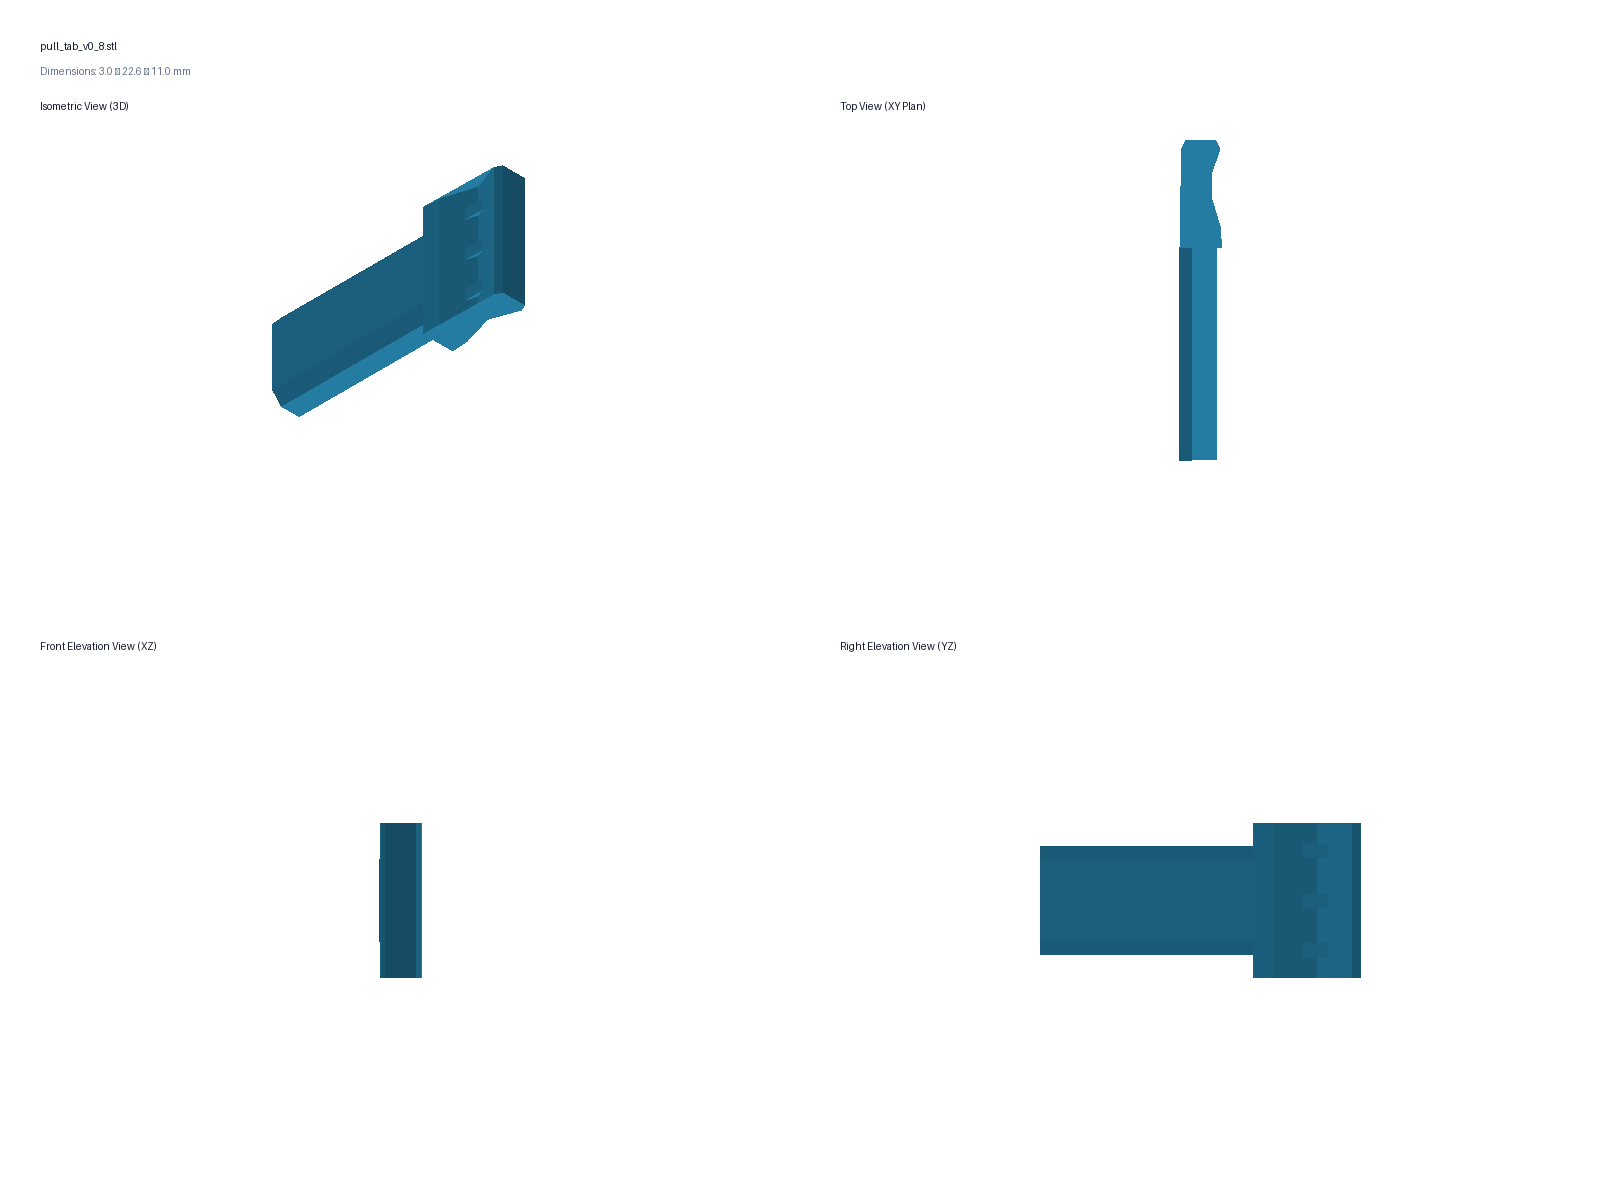
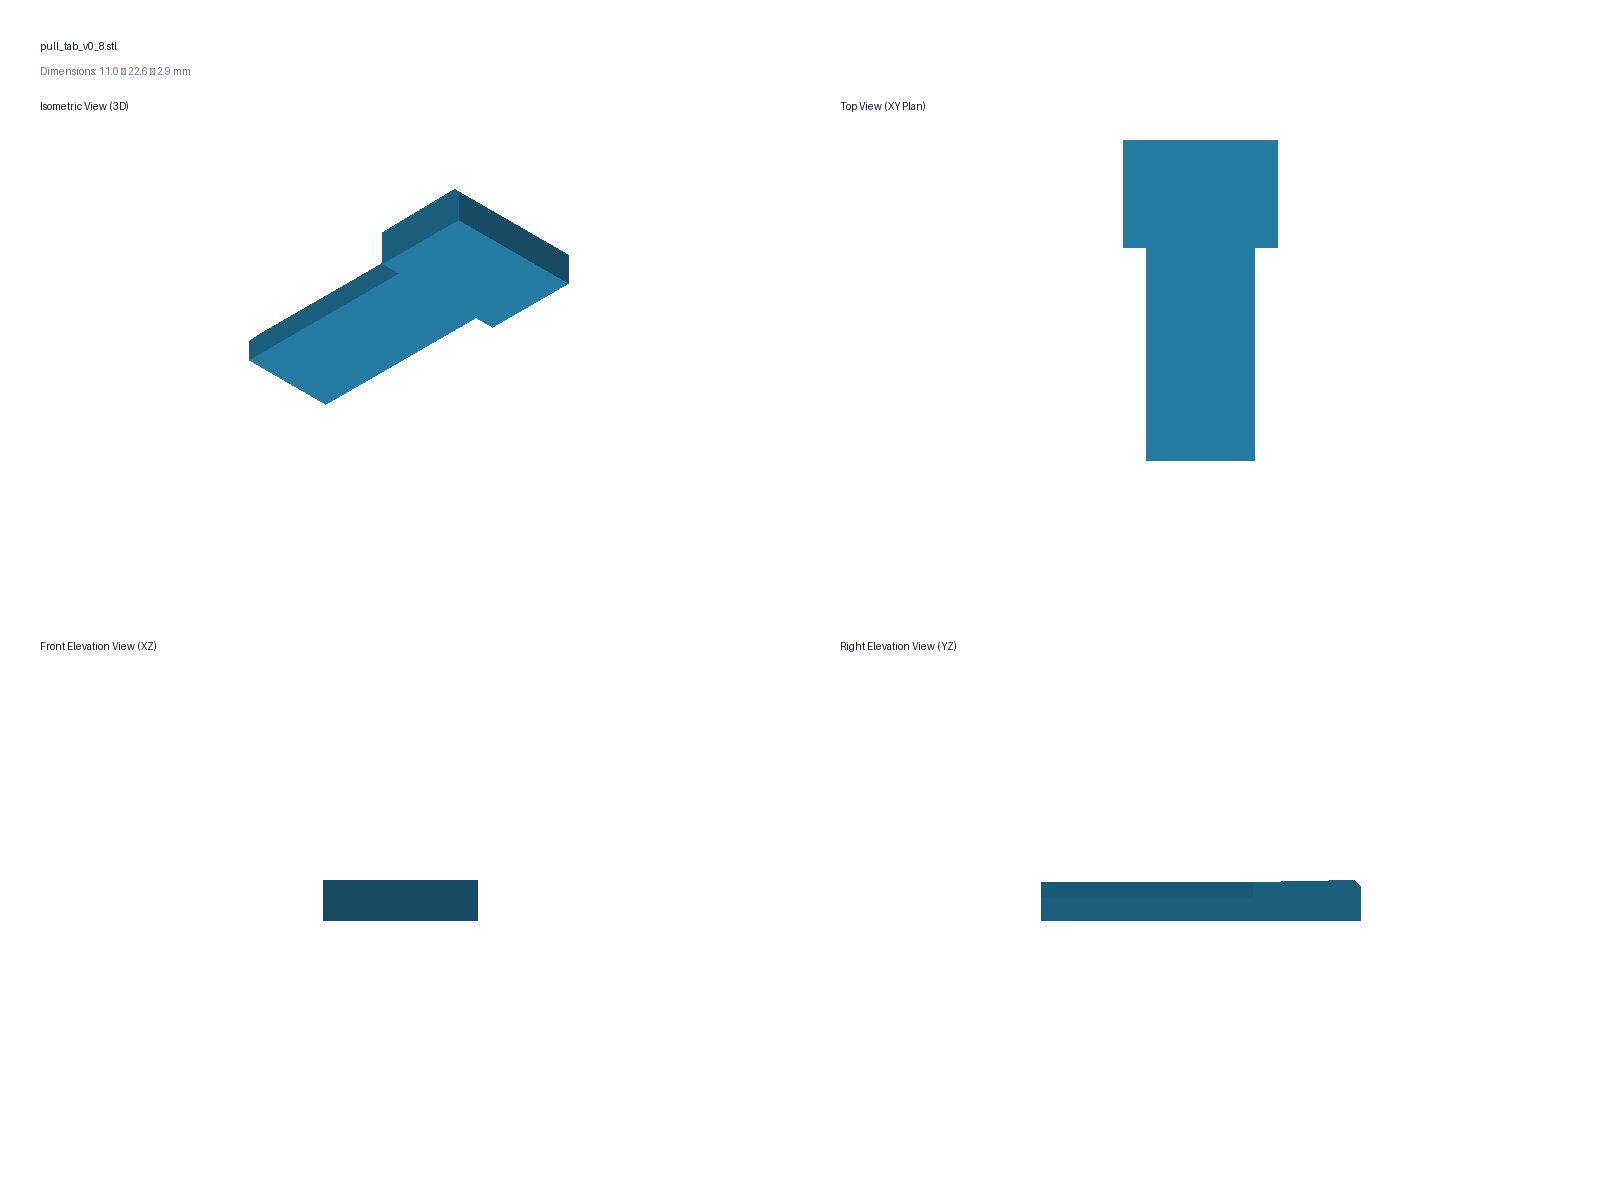
pull-tab: update to print laying flat on back face with face-up finger grip for max bed adhesion and tensile strength

diff --git a/Cassettes/glass_slide_cassette_40x80/generate_cassette.py b/Cassettes/glass_slide_cassette_40x80/generate_cassette.py
@@ -977,51 +977,47 @@ def build_lid_local() -> Mesh:
 
 
 def build_pull_tab() -> Mesh:
-    """Build the standalone ergonomic rigid pull tab with vertical dovetail shank."""
+    """Build the standalone ergonomic rigid pull tab with vertical dovetail shank and face-up finger grip."""
     out = Mesh(f"pull_tab_{VERSION_TAG}")
     # Local coordinate system:
     # Shank extends Z in [0.00, 15.05 mm] (matching body keyway from Z = 17.80 to 32.80 mm).
     # Grip head extends Z in [15.00, 22.60 mm] (protruding +4.00 mm above closed 3.60 mm lid).
-    # Centered at (X = 17.10, Y = 0.00) relative to the pull tab's origin.
+    # Flat back face at X = 18.50 mm rests completely flat on the build plate (print Z = 0).
 
     # 1. Vertical dovetail male shank (Z in [0.00, 15.05 mm]):
     shank_xy = [
         (15.75, -2.85),
         (15.75, 2.85),
-        (16.65, 3.85),
-        (18.45, 3.85),
-        (18.45, -3.85),
-        (16.65, -3.85),
+        (16.85, 3.85),
+        (18.50, 3.85),
+        (18.50, -3.85),
+        (16.85, -3.85),
     ]
     out.extend(prism("tab_shank_body", shank_xy, 0.00, 15.05))
 
-    # 2. Upper ergonomic grip head (Z in [15.00, 22.60 mm]):
-    # Below Z = 18.60 mm: passes through lid skirt notch at X in [17.40, 19.25 mm].
-    # Above Z = 18.60 mm: flares out above lid for ergonomic two-finger purchase.
+    # 2. Upper ergonomic grip head (Z in [15.00, 22.60 mm], 11.0 mm wide fin along Y):
+    # Flat back face at X = 18.50 mm; contoured finger scoop on the face-up side (X <= 16.80 mm):
     head_profile_xz = [
-        (17.40, 15.00),
-        (19.25, 15.00),
-        (19.25, 18.60),
-        (19.25, 22.00),
-        (18.90, 22.60),
-        (16.60, 22.60),
-        (16.30, 22.00),
-        (17.00, 19.50),
-        (17.40, 18.60),
+        (15.75, 15.00),
+        (18.50, 15.00),
+        (18.50, 22.60),
+        (16.00, 22.60),
+        (15.60, 22.20),
+        (16.80, 20.00),
+        (16.00, 18.60),
     ]
     out.extend(prism_y("tab_grip_head", head_profile_xz, -5.50, 5.50))
 
-    # 3. Tactile grip ribs on finger hollow:
-    for y_rib in [-3.50, 0.00, 3.50]:
-        out.extend(box(f"tab_inner_rib_{y_rib}", 16.70, 17.25, y_rib - 0.50, y_rib + 0.50, 19.00, 21.00))
-        out.extend(box(f"tab_outer_rib_{y_rib}", 18.70, 19.25, y_rib - 0.50, y_rib + 0.50, 19.00, 21.00))
+    # 3. Tactile grip ribs on the face-up side (print Z top surface):
+    out.extend(box("tab_rib_1", 16.00, 16.50, -4.50, 4.50, 19.20, 19.80))
+    out.extend(box("tab_rib_2", 16.00, 16.50, -4.50, 4.50, 20.50, 21.10))
 
     return out.positive()
 
 
 def pull_tab_print_orientation(tab: Mesh) -> Mesh:
-    """Orient pull tab lying flat on its side (Y-face down) for 100% support-free printing and max tensile strength."""
-    rotated = tab.transformed(lambda p: (p[0], p[2], p[1]), f"pull_tab_{VERSION_TAG}")
+    """Orient pull tab laying flat on its back face (Z=0) for maximum bed adhesion, tensile strength, and support-free printing."""
+    rotated = tab.transformed(lambda p: (p[1], p[2], 18.50 - p[0]), f"pull_tab_{VERSION_TAG}")
     zmin = rotated.bounds()[0][2]
     return rotated.translated(0.0, 0.0, -zmin, f"pull_tab_{VERSION_TAG}").positive()
 
